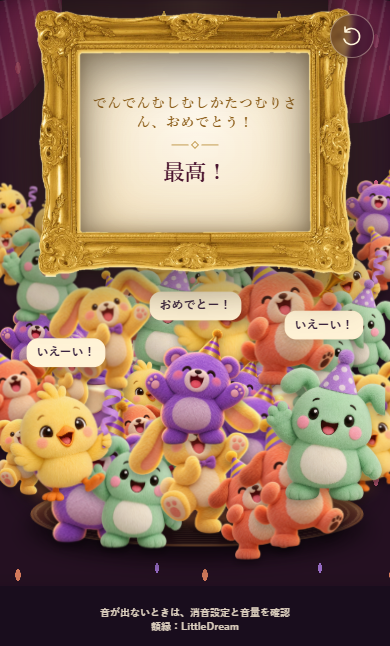
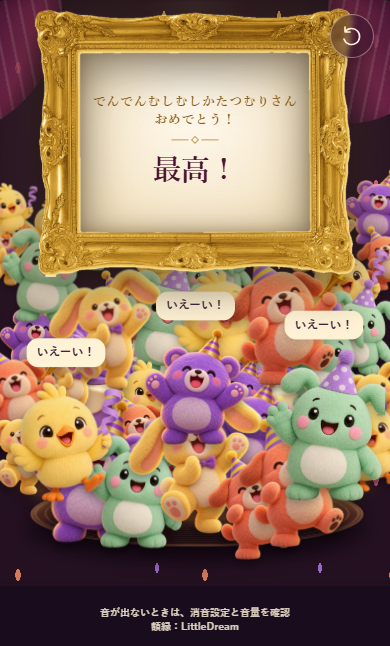
Improve framed wishes and raise phone melody volume

Changed region(s): [[0.2462, 0.1548, 0.7692, 0.2786], [0.3692, 0.4334, 0.6154, 0.4954]]

diff --git a/dist/style.css b/dist/style.css
@@ -235,3 +235,14 @@ body[data-scene="plush-prepare"]::before { background: radial-gradient(ellipse a
 .party.long-celebration-message .celebration-copy > .frame-shell .frame-paper #celebration-message { font-size: clamp(16px, 4.6vw, 19px); }
 @media (max-height: 740px) { .party[data-scene="celebrate"] .scene-copy { top: 10px; transform: scale(.86); } .party[data-scene="celebrate"] .cake-button { top: 290px; } }
 @media (max-height: 700px) { .party[data-scene="celebrate"] .scene-copy { top: 8px; transform: scale(.84); } .party[data-scene="celebrate"] .cake-button { top: 285px; } }
+
+/* celebration: split title and fit the wish within the frame */
+.celebration-copy > .frame-shell .frame-window #celebration-title { white-space: pre-line; font-size: clamp(14px, 4vw, 16px); line-height: 1.35; max-height: none; }
+.celebration-copy > .frame-shell .frame-window { gap: 8px; padding: 12px 4px; }
+.celebration-copy > .frame-shell .frame-paper #celebration-message { max-height: none; width: 100%; line-height: 1.4; text-wrap: balance; }
+.party.medium-celebration-message .celebration-copy > .frame-shell .frame-paper #celebration-message,
+.party.long-celebration-message .celebration-copy > .frame-shell .frame-paper #celebration-message { font-size: inherit; }
+/* mic-less button centered */
+.party[data-mic-state="preparing"] .scene-controls { align-items: center; max-width: none; }
+#fallback { width: min(100%, 320px); align-self: center; }
+.party[data-mic-state="preparing"] #reset { align-self: flex-start; }

diff --git a/test/app.test.js b/test/app.test.js
@@ -468,8 +468,9 @@ test('cake base is a local candle-free asset and candles remain dynamic SVG', as
 });
 test('celebration uses a visual pop with synthesized applause and cheers, without browser speech', async () => {
   const app = harness(() => Promise.reject());
-  app.count(1); app.submit(); await flush(); app.get('cake-button').click(); app.runTimer(1000);
+  app.name('たろう'); app.count(1); app.submit(); await flush(); app.get('cake-button').click(); app.runTimer(1000);
   assert.ok(app.get('celebration-message').classList.contains('celebration-pop'));
+  assert.equal(app.get('celebration-title').textContent, 'たろうさん\nおめでとう！');
   const source = await readFile(new URL('../dist/app.js', import.meta.url), 'utf8');
   const html = await readFile(new URL('../dist/index.html', import.meta.url), 'utf8');
   assert.match(source, /playCrowdCheer\(\);/);
